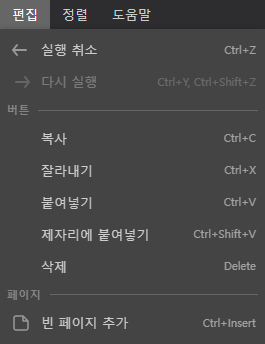
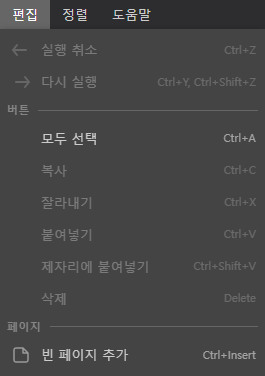
docs: ebook 패키저 가이드에 Ctrl+A 전체 선택 반영 및 버전 표기 갱신
- 편집 메뉴 표에 "모두 선택 / Ctrl+A" 추가, 편집 메뉴 스크린샷 교체
- 버튼 편집 설명과 문서 변환의 페이지 선택 방법에 Ctrl+A 안내 추가
- 패키저 버전 표기 v1.0.0 → v1.2.1 (상단 meta·하단 footer)

diff --git a/docs/ob-ebook-packager-guide.html b/docs/ob-ebook-packager-guide.html
@@ -507,7 +507,7 @@
         <h1>OnBook ebook 패키저 가이드</h1>
         <p>PDF 기반 교과서(ebook) 제작·패키징 도구 사용 가이드</p>
       </div>
-      <div class="meta">ebook 패키저 v1.0.0 &nbsp;·&nbsp; 콘텐츠 개발사용</div>
+      <div class="meta">ebook 패키저 v1.2.1 &nbsp;·&nbsp; 콘텐츠 개발사용</div>
     </div>
     <div class="backdrop"></div>
 
@@ -663,6 +663,7 @@
             <tr><th style="width: 200px">메뉴</th><th style="width: 140px">단축키</th><th>설명</th></tr>
             <tr><td>실행 취소</td><td><span class="kbd">Ctrl+Z</span></td><td>버튼 작업(배치·수정·삭제)을 되돌립니다.</td></tr>
             <tr><td>다시 실행</td><td><span class="kbd">Ctrl+Y</span></td><td>되돌린 작업을 다시 적용합니다 (<span class="kbd">Ctrl+Shift+Z</span>도 동일).</td></tr>
+            <tr><td>모든 버튼 선택</td><td><span class="kbd">Ctrl+A</span></td><td>현재 보이는 페이지(펼침면이면 양쪽)의 버튼을 모두 선택합니다.</td></tr>
             <tr><td>복사 / 잘라내기</td><td><span class="kbd">Ctrl+C</span> / <span class="kbd">Ctrl+X</span></td><td>선택한 버튼을 복사·잘라내기합니다.</td></tr>
             <tr><td>붙여넣기</td><td><span class="kbd">Ctrl+V</span></td><td>복사한 버튼을 붙여넣습니다.</td></tr>
             <tr><td>제자리에 붙여넣기</td><td><span class="kbd">Ctrl+Shift+V</span></td><td>복사한 위치 그대로 붙여넣습니다 (다른 페이지에 같은 위치로 복제할 때 유용).</td></tr>
@@ -731,6 +732,7 @@
         <ul>
           <li><strong>클릭</strong> — 페이지 1장의 선택 상태를 토글합니다 (선택 ↔ 해제).</li>
           <li><strong>드래그</strong> — 드래그 영역에 걸치는 페이지들을 한 번에 여러 장 선택할 때 사용합니다. 영역 안의 각 페이지는 선택 상태가 토글되므로, 이미 선택된 페이지가 영역에 걸리면 오히려 선택이 해제됩니다.</li>
+          <li><span class="kbd">Ctrl+A</span> — 전체 페이지를 선택합니다.</li>
           <li><span class="kbd">Esc</span> — 전체 선택을 취소합니다.</li>
         </ul>
         <p>페이지를 고른 뒤 <code>페이지 추출하기</code> → <code>다음</code>을 누릅니다.</p>
@@ -863,7 +865,7 @@
           <li>이 상태에서 편집 영역을 클릭하면 <strong>클릭한 위치에 버튼이 추가</strong>됩니다.</li>
           <li>추가된 버튼을 선택하면 <strong>테두리</strong>가 표시됩니다. <span class="kbd">Esc</span> 또는 편집 영역의 다른 곳을 클릭하면 선택이 해제됩니다.</li>
           <li>버튼을 선택한 상태에서는 오른쪽 패널의 <strong>버튼</strong> 탭에서 가로·세로 위치(%)를 숫자로 조정할 수 있고, <strong>마우스로 직접 드래그</strong>해서 위치를 옮길 수도 있습니다.</li>
-          <li>빈 곳에서 드래그하면 <strong>선택 영역</strong>이 만들어져 여러 버튼을 한 번에 선택할 수 있습니다.</li>
+          <li>빈 곳에서 드래그하면 <strong>선택 영역</strong>이 만들어져 여러 버튼을 한 번에 선택할 수 있습니다. <span class="kbd">Ctrl+A</span>를 누르면 현재 보이는 페이지의 버튼이 모두 선택됩니다.</li>
           <li>
             다중 선택 상태에서 복사(<span class="kbd">Ctrl+C</span>)·붙여넣기(<span class="kbd">Ctrl+V</span>)·제자리에 붙여넣기(<span class="kbd">Ctrl+Shift+V</span>)·삭제(<span class="kbd">Delete</span>)·이동·정렬(<span class="kbd">Ctrl+Shift+L</span> 등)을 일괄 수행합니다.
           </li>
@@ -1055,7 +1057,7 @@
       </main>
     </div>
 
-    <div class="footer"><span>OnBook ebook 패키저 가이드 · 콘텐츠 개발사용 · 패키저 v1.0.0 · 문서 v1.0</span><span>&copy; 2026 Amanta</span></div>
+    <div class="footer"><span>OnBook ebook 패키저 가이드 · 콘텐츠 개발사용 · 패키저 v1.2.1 · 문서 v1.0</span><span>&copy; 2026 Amanta</span></div>
 
     <script>
       // ─── 고정 헤더·푸터 높이를 CSS 변수(--header-h, --footer-h)에 반영 ───
